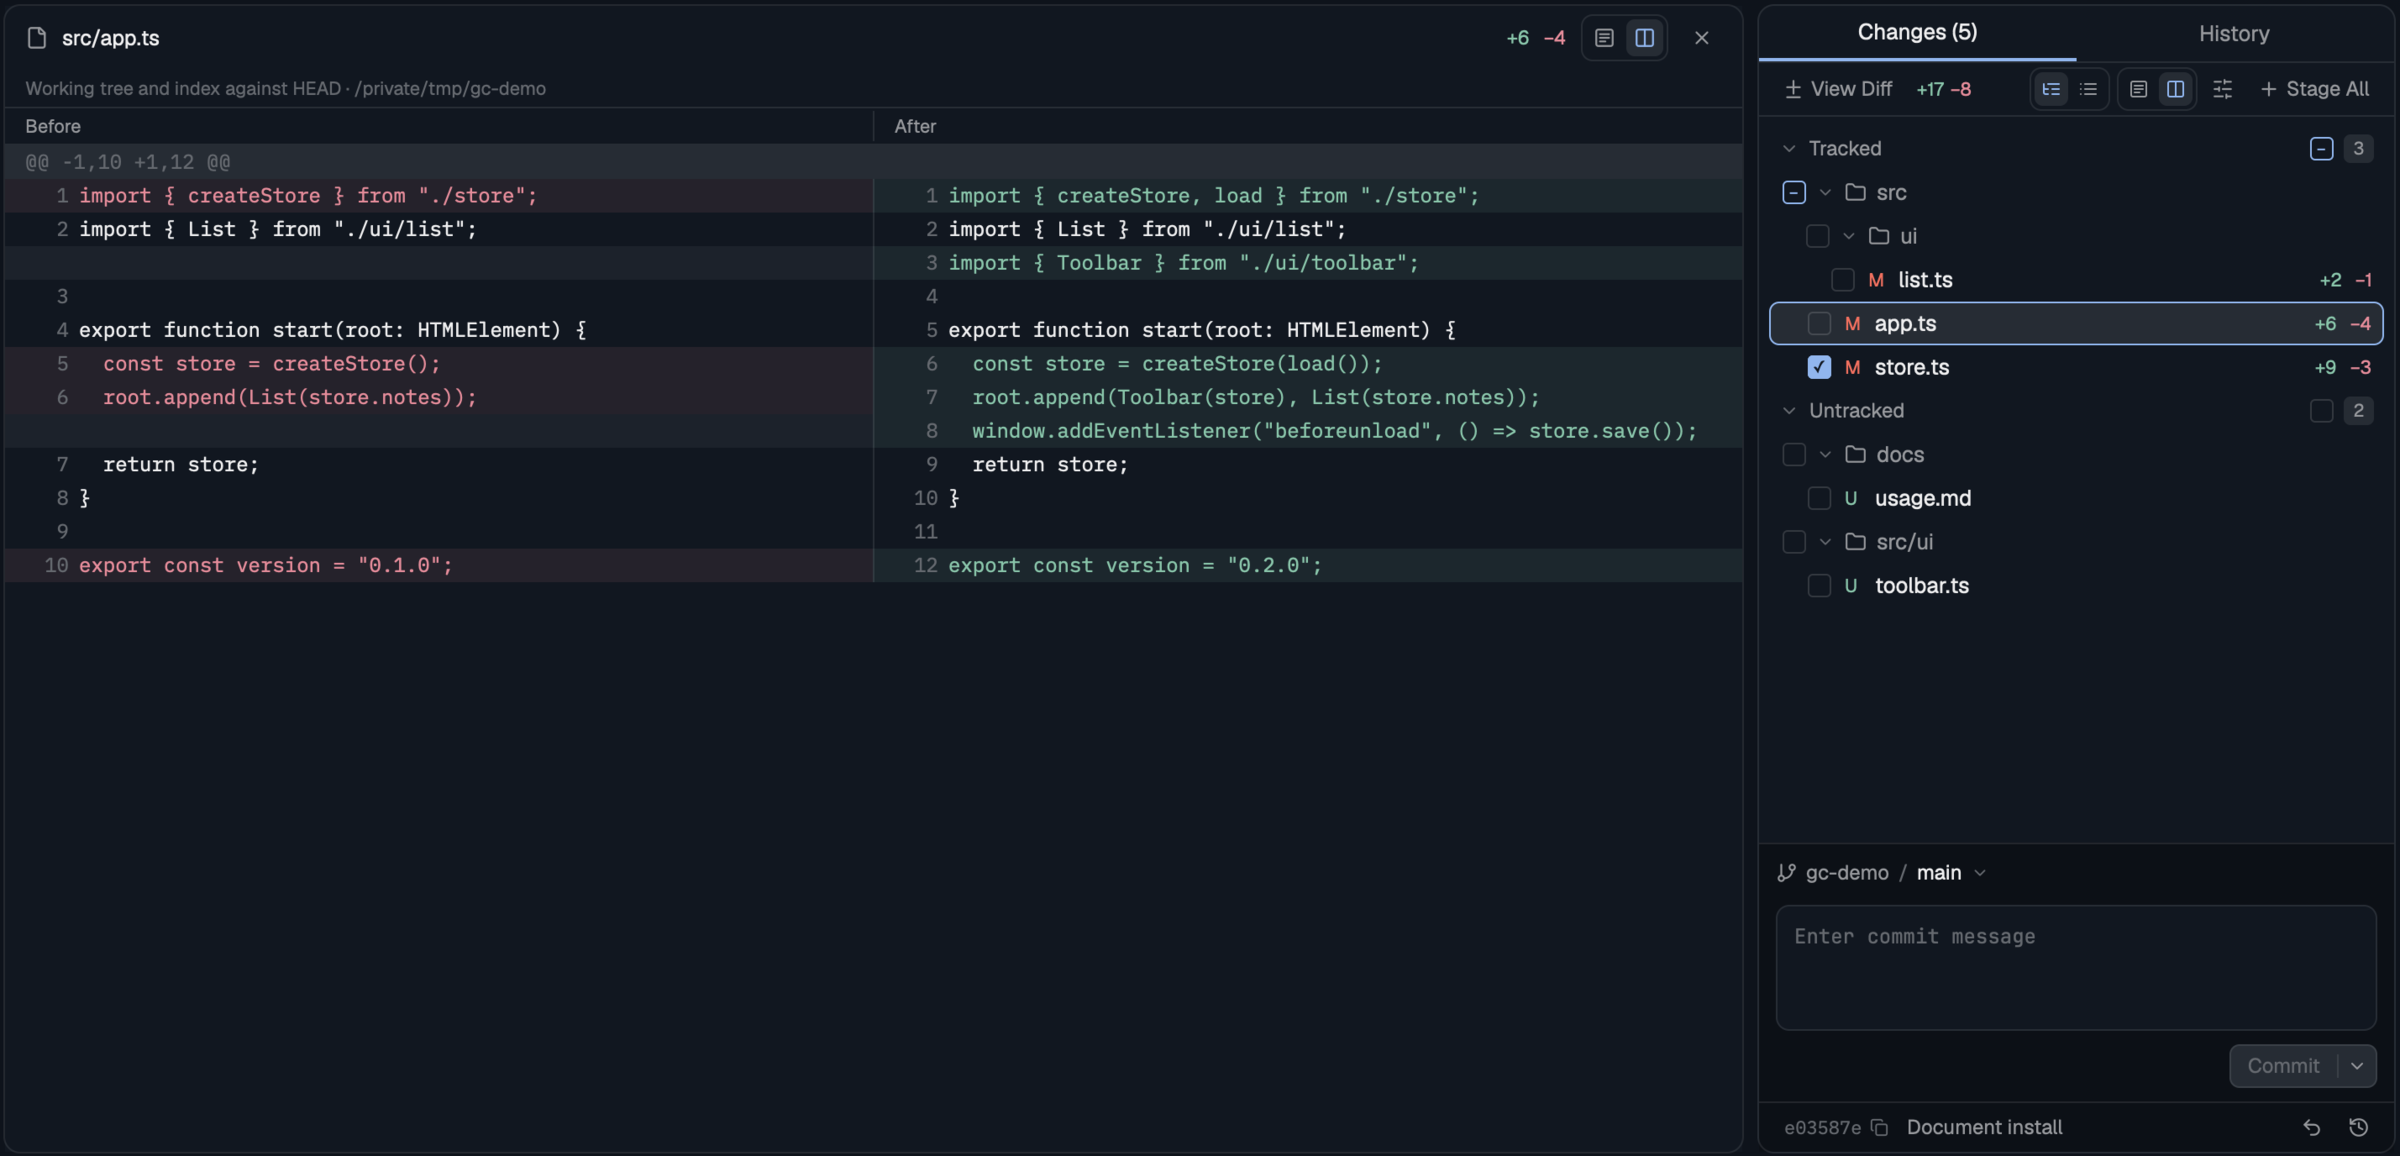
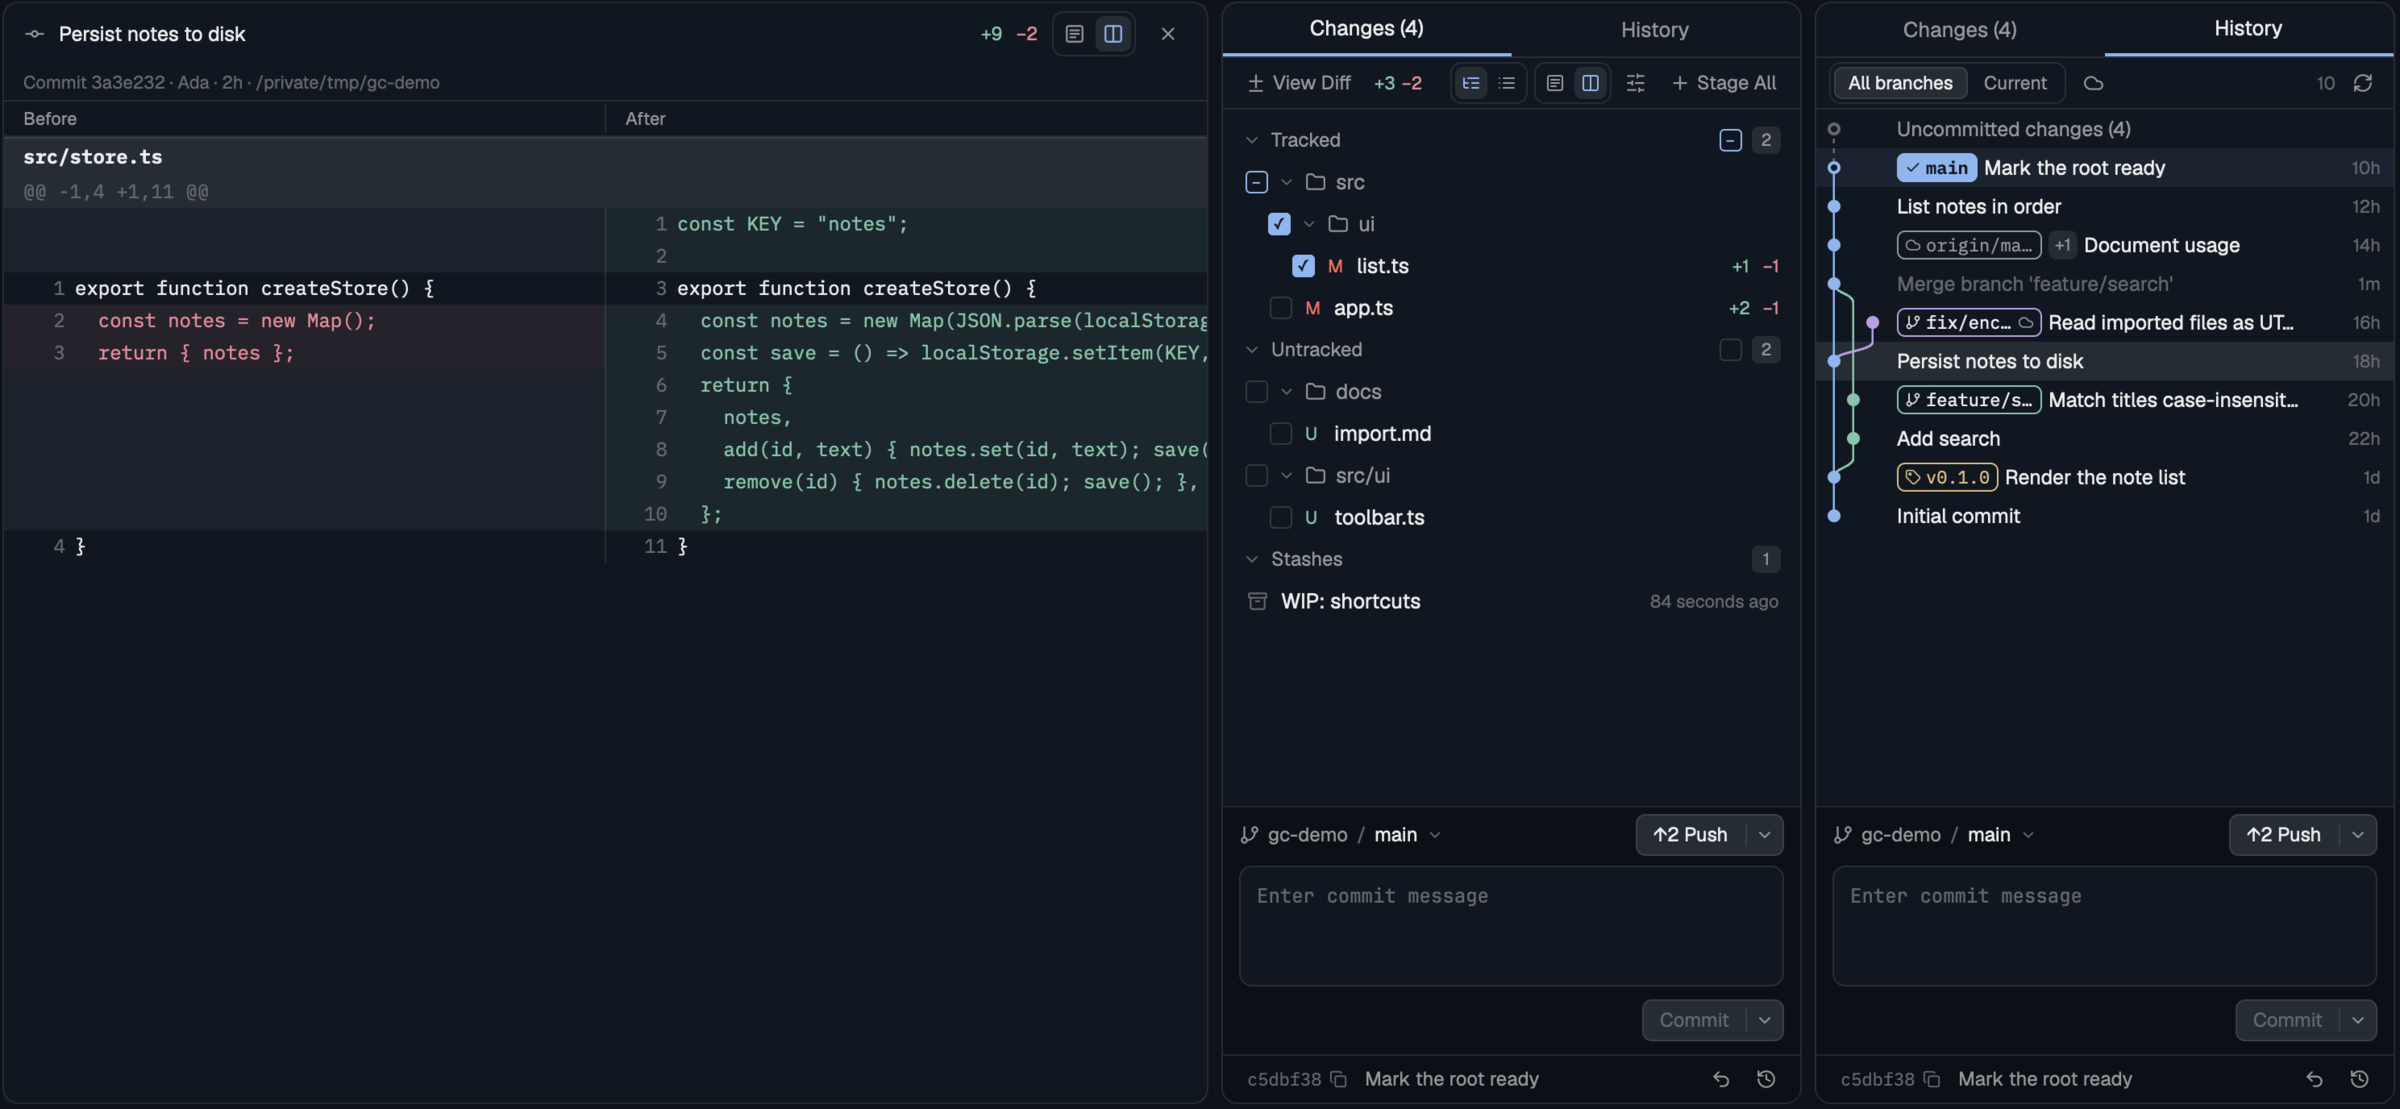
docs: the screenshot shows History's commit graph too

diff --git a/README.md b/README.md
@@ -13,7 +13,7 @@ stages everything first. Installing doesn't swap them by itself: each layout
 picks its own Changes panel, so you point your layouts at this one
 ([how](#use-it-as-your-changes-panel)).
 
-![Git Changes: a two-column diff in the main area, the Changes panel as a folder tree on the right](preview.png)
+![Git Changes: a commit picked in History shown in two columns in the main area; beside it the Changes panel as a folder tree, and the History tab with its commit graph](preview.png)
 
 ## What it does
 
